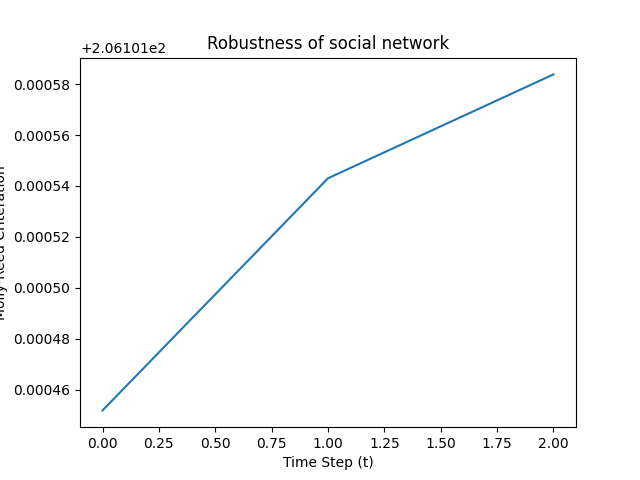
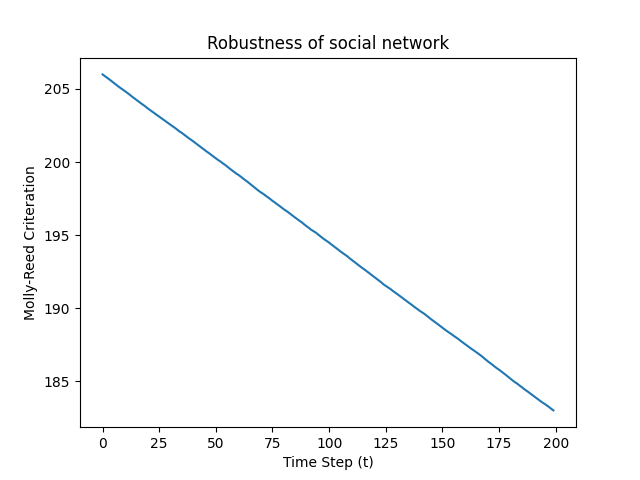
Update

diff --git a/runner.py b/runner.py
@@ -6,6 +6,7 @@ import numpy as np
 import networkx as nx
 import matplotlib.pyplot as plt
 from utils.misc import *
+from utils.plot import *
 from utils.criterion import *
 from algorithm.attack import *
 from algorithm.defense import *
@@ -15,10 +16,13 @@ class Runner:
     def __init__(self, args):
         self.args = args
         self.name = self.args.network
-        self.G = generate_network(self.name)
 
-        self.attack = Attack(self.G, self.args.nnode)
-        self.attack = Defense(self.G, self.args.nnode)
+        self.network = generate_network(self.name)
+
+        self.attack = Attack(self.network, self.args.nnode)
+        self.defense = Defense(self.network, self.args.nnode)
+
+        self.metric = Robustness_metric(self.network)
 
         self.script_dir = os.path.dirname(__file__)
         self.results_dir = os.path.join(self.script_dir, 'experiment', self.name)
@@ -32,33 +36,22 @@ class Runner:
         for i in range(self.args.niter):
 
             if self.args.algorithm == 'random':
-                self.G = self.attack.random_attack()
-                self.G = self.attack.random_defense()
+                self.network = self.attack.random_attack()
+                self.network = self.defense.random_defense()
 
             elif self.args.algorithm == 'smart':
-                self.G = self.attack.smart_attack()
-                self.G = self.attack.smart_defense()
+                self.network = self.attack.smart_attack()
+                self.network = self.defense.smart_defense()
 
-            val = molly_reed_criterion(self.G)
+            if self.args.criterion == "molly_reed":
+                val = self.metric.molly_reed()
+
+            if i % 100 == 0:
+                degree_dist(self.network, self.results_dir, self.name, i)
+
             molly_reed.append(val)
 
-        # Plotting network robutsness vs. time
-        t = np.arange(len(molly_reed))
-        plt.figure()
-        plt.plot(t, molly_reed, '-')
-        plt.title('Robustness of ' + self.name)
-        plt.xlabel('Time Step (t)')
-        plt.ylabel('Molly-Reed Criteration')
-        plt.savefig(self.results_dir + "/molly reed_result.png", format="PNG")
-
-        # Plotting the degree distribution
-        # y = nx.degree_histogram(self.G)
-        # x = np.arange(len(y)).tolist()
-        # plt.plot(x, y, 'o')
-        # plt.title('Degree distribution of ' + self.name)
-        # plt.xlabel('Node degree')
-        # plt.ylabel('Frequency (number of nodes)')
-        # plt.savefig(self.results_dir + "/degree dist.png", format="PNG")
-        # plt.show()
+        plot_mr_robustness(molly_reed, self.results_dir, self.name)
+        degree_dist(self.network, self.results_dir, self.name, i)
 
         return molly_reed

diff --git a/utils/plot.py b/utils/plot.py
@@ -1,0 +1,29 @@
+import random
+import scipy.special
+import numpy as np
+import networkx as nx
+import matplotlib.pyplot as plt
+
+def plot_mr_robustness(data, dir, name):
+    # Plotting network robutsness vs. time
+    t = np.arange(len(data))
+    plt.figure()
+    plt.plot(t, data, '-')
+    plt.title('Robustness of ' + name)
+    plt.xlabel('Time Step (t)')
+    plt.ylabel('Molly-Reed Criteration')
+    plt.savefig(dir + "/molly reed_result.png", format="PNG")
+
+def degree_dist(network, dir, name, time):
+    # Plotting the degree distribution at time t
+    y = nx.degree_histogram(network)
+    x = np.arange(len(y)).tolist()
+    plt.figure()
+    plt.plot(x, y, 'o')
+    plt.title('Degree distribution of ' + name)
+    plt.xlabel('Node degree')
+    plt.ylabel('Frequency (number of nodes)')
+    plt.savefig(dir + "/degree dist_" + str(time) + ".png", format="PNG")
+
+# def graph_visualization(G):
+    # return nx.write_gml(G, "email-Enron.gml")

diff --git a/utils/misc.py b/utils/misc.py
@@ -15,11 +15,12 @@ def get_args():
                         choices=['social network', 'p2p network', 'email network', 'as network'])
     parser.add_argument("--algorithm", type=str, default='random', help="algorithm name",
                         choices=['random', 'smart'])
-    parser.add_argument("--niter", type=int, default=3, help="number of steps in experiment")
-    parser.add_argument("--nnode", type=int, default=1, help="number of nodes chosen to remove edges")
-    args = parser.parse_args()
+    parser.add_argument("--criterion", type=str, default='molly_reed', help="robustness metric",
+                        choices=['molly_reed'])
+    parser.add_argument("--niter", type=int, default=200, help="number of steps in experiment")
+    parser.add_argument("--nnode", type=int, default=1000, help="number of nodes chosen to remove edges")
 
-    return args
+    return parser.parse_args()
 
 
 def set_seed(seed=123456):

diff --git a/utils/criterion.py b/utils/criterion.py
@@ -4,14 +4,18 @@ import numpy as np
 import networkx as nx
 
 
-def molly_reed_criterion(G):
+class Robustness_metric():
+    def __init__(self, G):
+        self.G = G
 
-    # Molly-Reed criterion states that the network has a giant component if <k^2> / <k> > 2
+    def molly_reed(self):
 
-    degree = [val for (node, val) in G.degree()]
-    degree_sqrt = np.square(degree)
+        # Molly-Reed criterion states that the network has a giant component if <k^2> / <k> > 2
 
-    if all(v == 0 for v in degree):
-        return 0
-    else:
-        return np.mean(degree_sqrt) / np.mean(degree)
+        degree = [val for (node, val) in self.G.degree()]
+        degree_sqrt = np.square(degree)
+
+        if all(v == 0 for v in degree):
+            return 0
+        else:
+            return np.mean(degree_sqrt) / np.mean(degree)

diff --git a/algorithm/attack.py b/algorithm/attack.py
@@ -7,6 +7,7 @@ class Attack():
         self.G = G
         self.n = n
 
+
     def random_attack(self):
 
         edges = list(self.G.edges())
@@ -17,7 +18,6 @@ class Attack():
             random_edge = random.sample(edges, self.n)
             for i in random_edge:
                 self.G.remove_edge(i[0], i[1])
-
             return self.G
 
 

diff --git a/main.py b/main.py
@@ -1,6 +1,3 @@
-import os
-import networkx as nx
-import numpy as np
 from runner import Runner
 from utils.misc import *
 
@@ -8,6 +5,5 @@ from utils.misc import *
 if __name__ == '__main__':
     set_seed()
     args = get_args()
-
     runner = Runner(args)
     result = runner.run()
